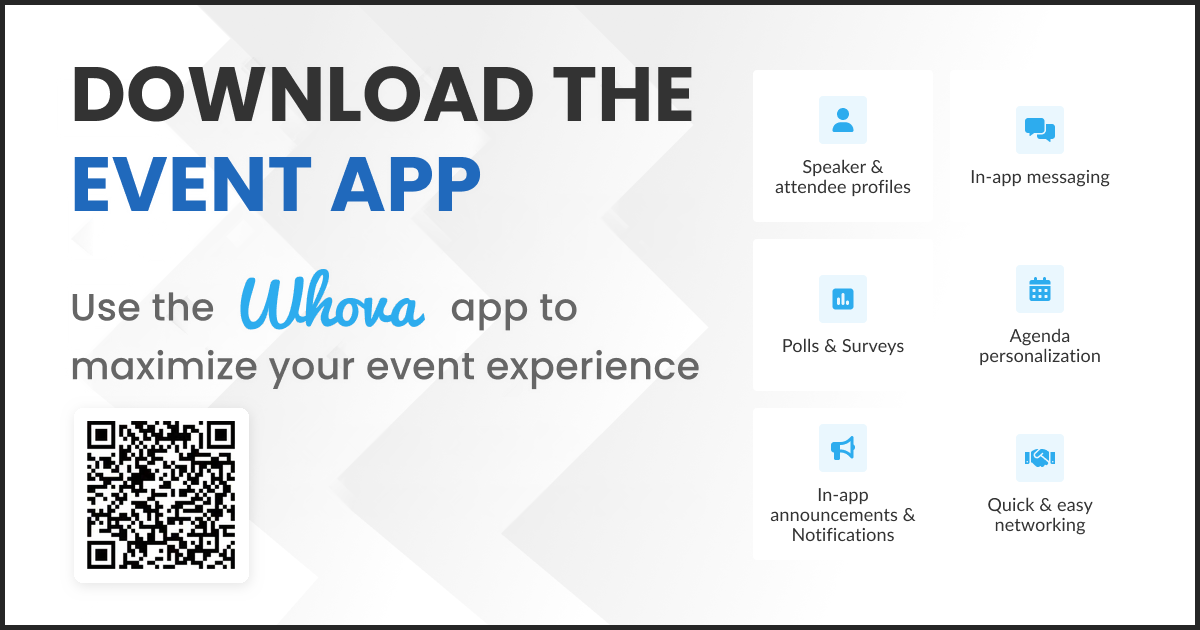
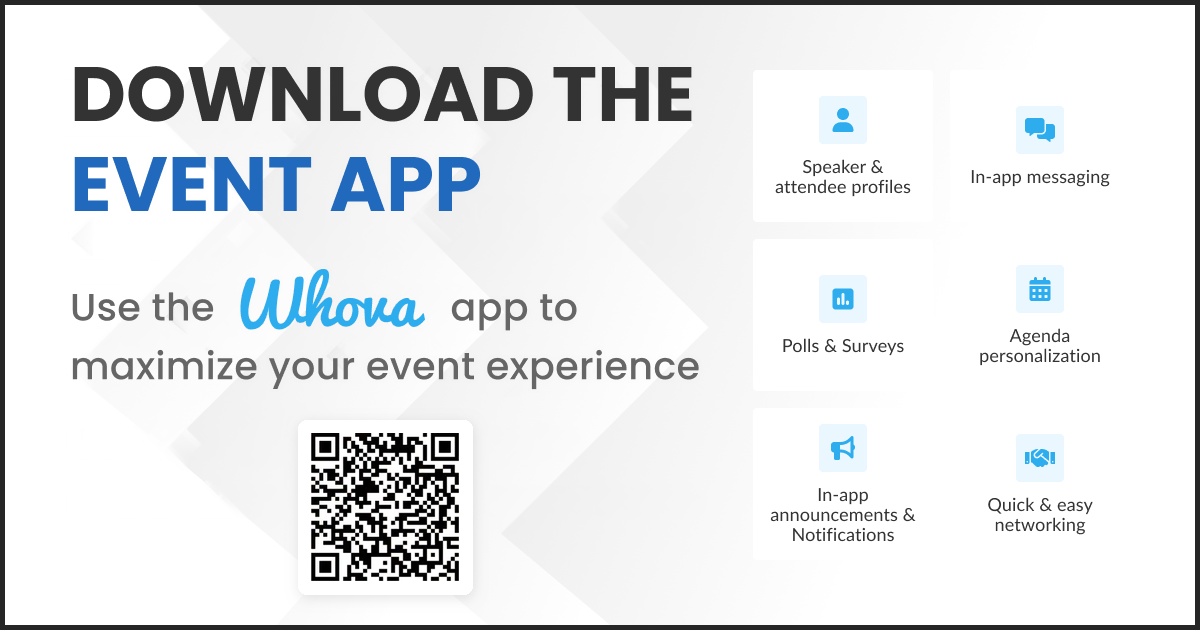
Centre the QR card in the blank area below the headline
Claude-Session: https://claude.ai/code/session_012p4UiyFo3P42J9FcHbNWTQ

Changed region(s): [[0.2467, 0.6635, 0.4008, 0.9349], [0.0617, 0.6635, 0.2158, 0.9048]]

diff --git a/event_app/relayout_add_qr.py b/event_app/relayout_add_qr.py
@@ -4,7 +4,7 @@ im = np.asarray(Image.open('v9/base.png').convert('RGB')).astype(np.float32)
 H, W, _ = im.shape
 X0, X1, Y0, Y1 = 62, 712, 190, 530                       # text block region
 DY = -133                                                # shift up
-QR_X, QR_Y, QR_S = 74, 408, 174       # white card (x, y, size)
+QR_X, QR_Y, QR_S = 298, 420, 174      # white card (x, y, size)
 box = np.zeros((H, W), bool); box[Y0:Y1, X0:X1] = True
 k = cv2.getStructuringElement(cv2.MORPH_RECT, (35, 35))
 med = cv2.morphologyEx(im.astype(np.uint8), cv2.MORPH_CLOSE, k).astype(np.float32)   # background without dark strokes
